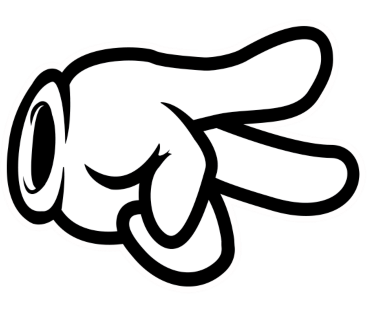
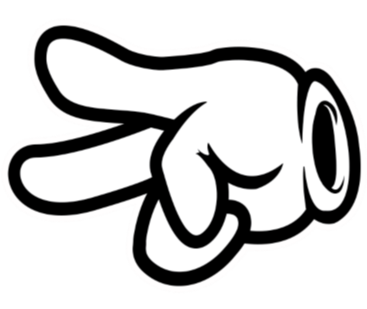
fliped user img

diff --git a/js/playEngine.js b/js/playEngine.js
@@ -1,16 +1,35 @@
 $(document).ready(function(){
+  let userChoice;
+  let botChoice;
+  let userTurn = true;
+  const playArray = [ 'rock' , 'paper' , 'scissors' ]
 
   $('#rock-btn').click( () => {
+    userTurn = false;
+    userChoice = 'rock';
     $('#user').empty();
     $('#user').append('<img src="imgs/rock.png" alt="rock" />')
   })
   $('#paper-btn').click( () => {
+    userTurn = false;
+    userChoice = 'paper';
     $('#user').empty();
     $('#user').append('<img src="imgs/paper.png" alt="paper" />')
   })
   $('#scissors-btn').click( () => {
+    userTurn = false;
+    userChoice = 'scissors';
     $('#user').empty();
     $('#user').append('<img src="imgs/scissors.png" alt="scissors" />')
-  })
-  
+  });
+
+  setInterval( ( ) => {
+    if(!userTurn) {
+      botChoice = playArray[ Math.floor( Math.random( ) * playArray.length ) ];
+      $('#bot').empty();
+      $('#bot').append(`<img src="imgs/${ botChoice }.png" alt="rock" />`);
+      userTurn = true;
+    }
+  } , 0)
+
 })

diff --git a/css/main.css b/css/main.css
@@ -155,6 +155,13 @@ section {
     .show-chosen div h2 {
       color: #e0e0e0;
       text-shadow: 1px -1px white, 3px 1px 2px black, 0px -1px 1px black; }
+  .show-chosen #user > img {
+    -moz-transform: scaleX(-1);
+    -o-transform: scaleX(-1);
+    -webkit-transform: scaleX(-1);
+    transform: scaleX(-1);
+    filter: FlipH;
+    -ms-filter: "FlipH"; }
   .show-chosen img {
     height: 100%; }
 

diff --git a/css/main.scss b/css/main.scss
@@ -139,6 +139,15 @@ section{
       text-shadow: 1px -1px white, 3px 1px 2px black, 0px -1px 1px black;
     }
   }
+  #user > img{
+    //to flip user img cross browsers 
+    -moz-transform: scaleX(-1);
+    -o-transform: scaleX(-1);
+    -webkit-transform: scaleX(-1);
+    transform: scaleX(-1);
+    filter: FlipH;
+    -ms-filter: "FlipH";
+  }
   img{
     height: 100%
   }
